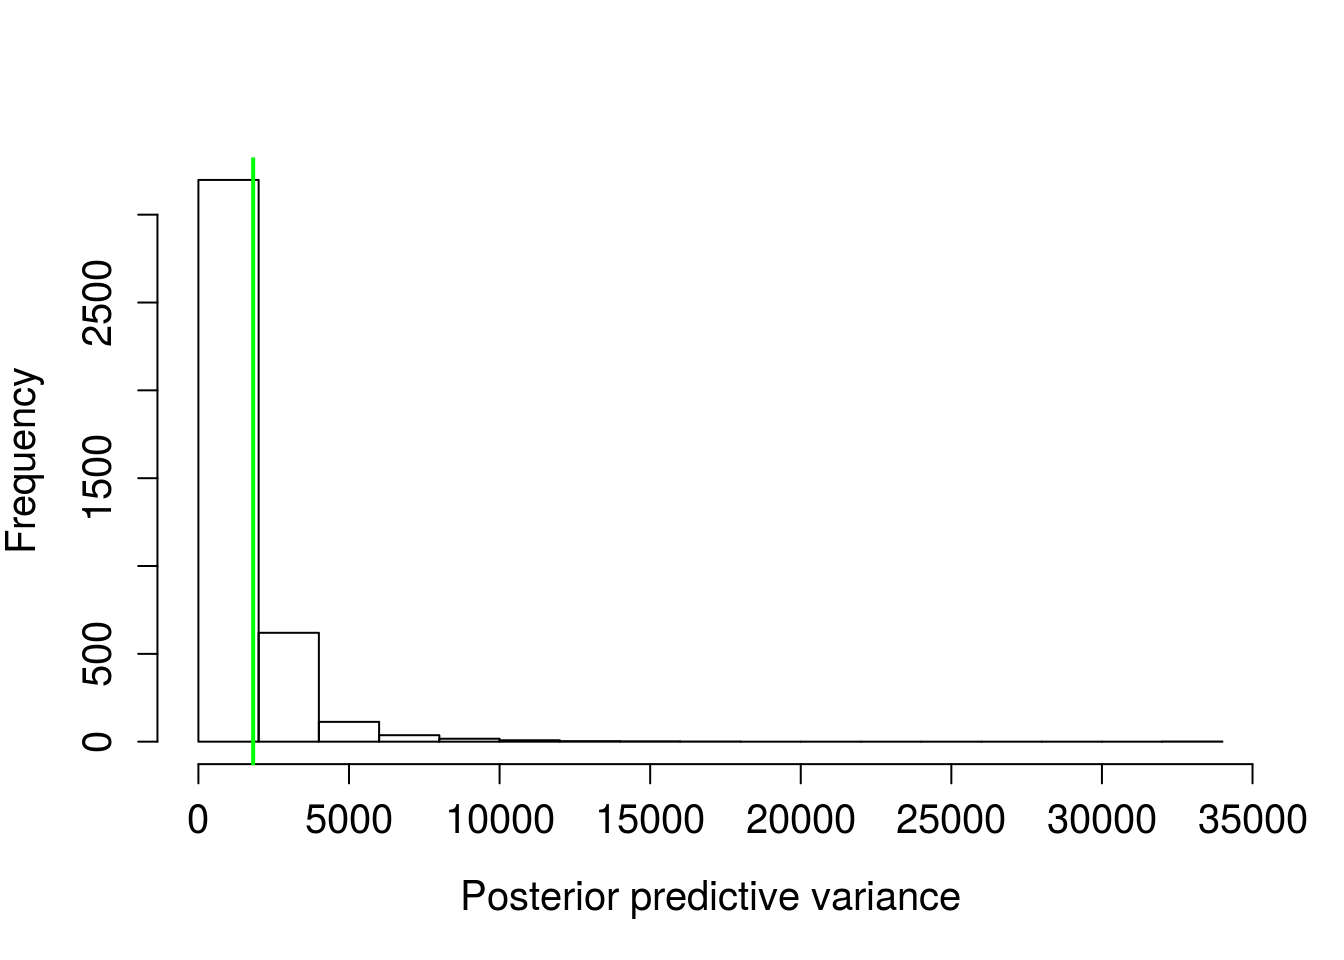
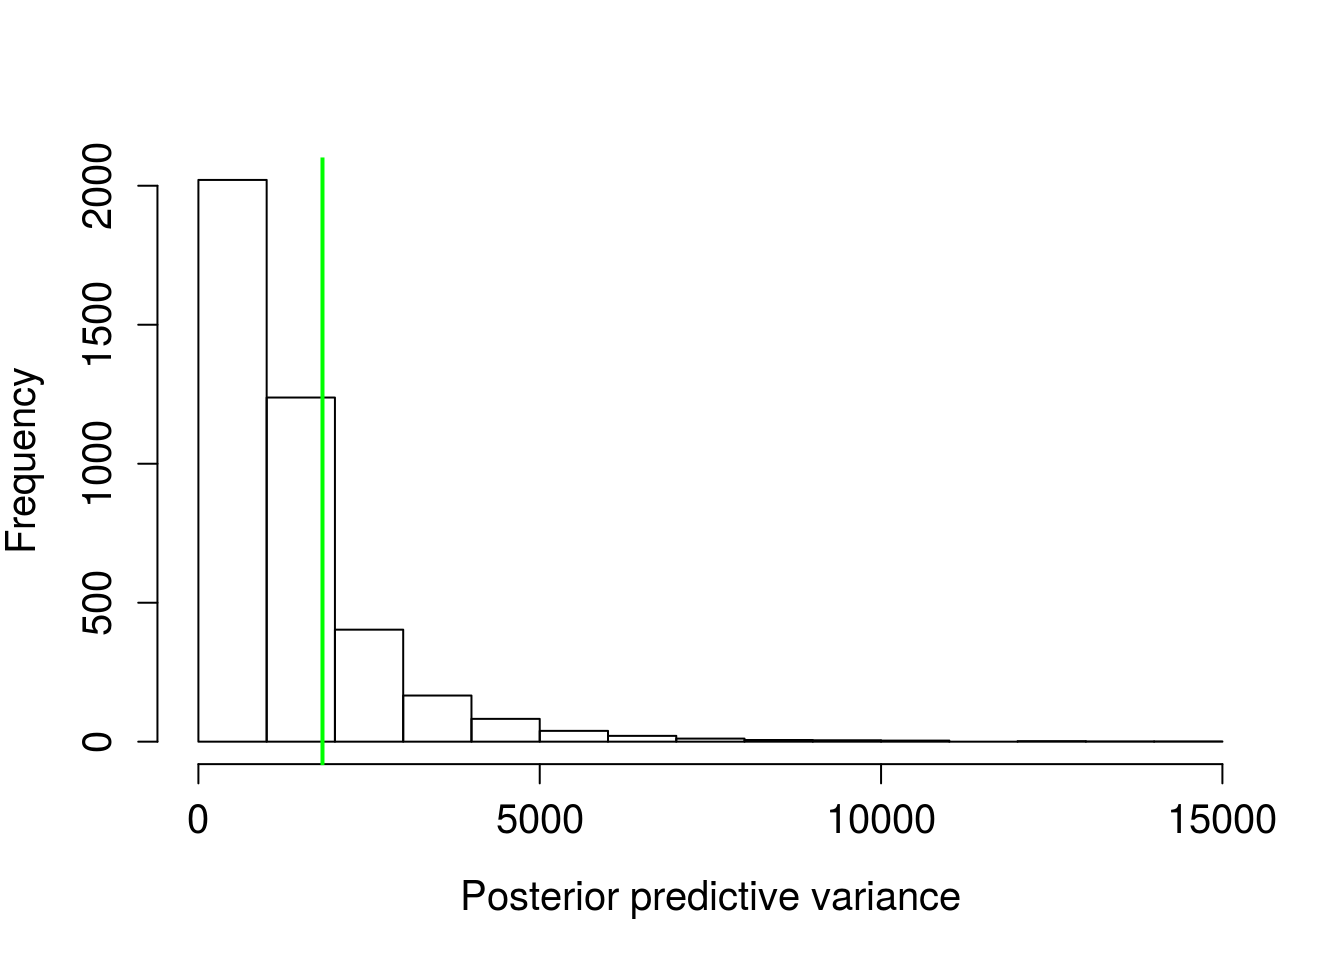
now caching content of prius post, massive speedup

diff --git a/2017/08/30/prius/index.html b/2017/08/30/prius/index.html
@@ -149,10 +149,10 @@ print(stan_fit)</code></pre>
 ## post-warmup draws per chain=1000, total post-warmup draws=4000.
 ## 
 ##        mean se_mean   sd   2.5%    25%    50%    75%  97.5% n_eff Rhat
-## beta   0.03    0.00 0.01   0.02   0.02   0.03   0.03   0.04  1598    1
-## lp__ -82.14    0.02 0.68 -84.17 -82.30 -81.87 -81.70 -81.65  1603    1
+## beta   0.03    0.00 0.01   0.02   0.02   0.03   0.03   0.04  1501    1
+## lp__ -82.15    0.02 0.72 -84.13 -82.31 -81.87 -81.70 -81.65  1687    1
 ## 
-## Samples were drawn using NUTS(diag_e) at Thu Jun 14 11:44:06 2018.
+## Samples were drawn using NUTS(diag_e) at Thu Jun 14 11:49:01 2018.
 ## For each parameter, n_eff is a crude measure of effective sample size,
 ## and Rhat is the potential scale reduction factor on split chains (at 
 ## convergence, Rhat=1).</code></pre>
@@ -175,11 +175,11 @@ exp_post %&gt;% data.frame() %&gt;%
 <pre class="r"><code>cred1 &lt;- quantile(1/exp_post$beta, c(0.025, 0.975))
 cred1</code></pre>
 <pre><code>##     2.5%    97.5% 
-## 22.59041 56.69345</code></pre>
-<p>So there’s a 95% chance the expected wait time between Prius spottings is between 23 and 57 seconds.</p>
+## 22.44922 56.47759</code></pre>
+<p>So there’s a 95% chance the expected wait time between Prius spottings is between 22 and 56 seconds.</p>
 <p>We can also easily see the probability that the expected wait time is less than, say, one minute.</p>
 <pre class="r"><code>mean(1/exp_post$beta &lt; 60)</code></pre>
-<pre><code>## [1] 0.9845</code></pre>
+<pre><code>## [1] 0.986</code></pre>
 <p>Also valuable in a Bayesian framework is the ability to conduct posterior predictive checks. We can use posterior draws of the rate parameter, and generate simulated data from this exponential distribution. Perhaps the wait times have more variation than the exponential distribution allows for. We simply need to compare the observed variation to that of the simulated data sets:</p>
 <pre class="r"><code>post_pred &lt;- exp_post$beta %&gt;% map(~rexp(n_obs, rate = .x))
 pred_var &lt;- post_pred %&gt;% map_dbl(~var(.x))
@@ -189,9 +189,9 @@ hist(pred_var,main = &quot;&quot;,
 abline(v = var(wt_times$wait), lwd = 2, col = &quot;green&quot;)</code></pre>
 <p><img src="/post/2018-02-16-prius_files/figure-html/unnamed-chunk-12-1.png" width="80%" style="display: block; margin: auto;" /></p>
 <pre class="r"><code>mean(pred_var &gt; var(wt_times$wait))</code></pre>
-<pre><code>## [1] 0.22925</code></pre>
+<pre><code>## [1] 0.21725</code></pre>
 <p>Figure 5. Distribution of variances from posterior predictive distributions, green line is the sample variance.</p>
-<p>There’s a ~23% probability of simulated data having variation greater than the observed. This isn’t too far off. The nearer to 50%, the more consistent the simulated data and observed. The exponential distribution model as-is seems fairly adequate.</p>
+<p>There’s a ~22% probability of simulated data having variation greater than the observed. This isn’t too far off. The nearer to 50%, the more consistent the simulated data and observed. The exponential distribution model as-is seems fairly adequate.</p>
 <p>We can also get some idea of the max wait time conditional of the data.</p>
 <pre class="r"><code>pred_max &lt;- post_pred %&gt;% map_dbl(~max(.x))
 hist(pred_max, 
@@ -202,7 +202,7 @@ abline(v = max(wt_times$wait), lwd = 2, col = &quot;green&quot;)</code></pre>
 <p><img src="/post/2018-02-16-prius_files/figure-html/unnamed-chunk-13-1.png" width="80%" style="display: block; margin: auto;" /></p>
 <pre class="r"><code>quantile(pred_max/60, c(0.025, 0.975))</code></pre>
 <pre><code>##      2.5%     97.5% 
-## 0.8255579 4.4744357</code></pre>
+## 0.8401799 4.4382242</code></pre>
 <p>Figure 6. Distribution of maximum wait times from posterior predictive distributions, green line is the sample maximum wait time.</p>
 <p>Wow, the model predicts wait times should pretty much always be less than five minutes. That’s a lot of Prii flashing past your face!</p>
 <p>We can also visually assess the simulated and observed distribution shapes by constructing quantile-quantile plots. I find it a bit easier to see departures by looking at the observed quantiles versus the difference in observed and simulated quantiles:</p>
@@ -255,7 +255,7 @@ abline(v = mean(wt_times$wait), lwd = 2, col = &quot;green&quot;)</code></pre>
 <pre class="r"><code>qnts &lt;- seq(0,1, length.out = 100)
 quantile(boots, c(0.025, 0.975))</code></pre>
 <pre><code>##     2.5%    97.5% 
-## 18.17647 57.47206</code></pre>
+## 18.05882 57.35294</code></pre>
 <pre class="r"><code>qqplot(boots, 1/exp_post$beta, 
        xlab = &quot;Bootstrap quantiles&quot;,
        ylab = &quot;Bayesian quantiles&quot;, 
